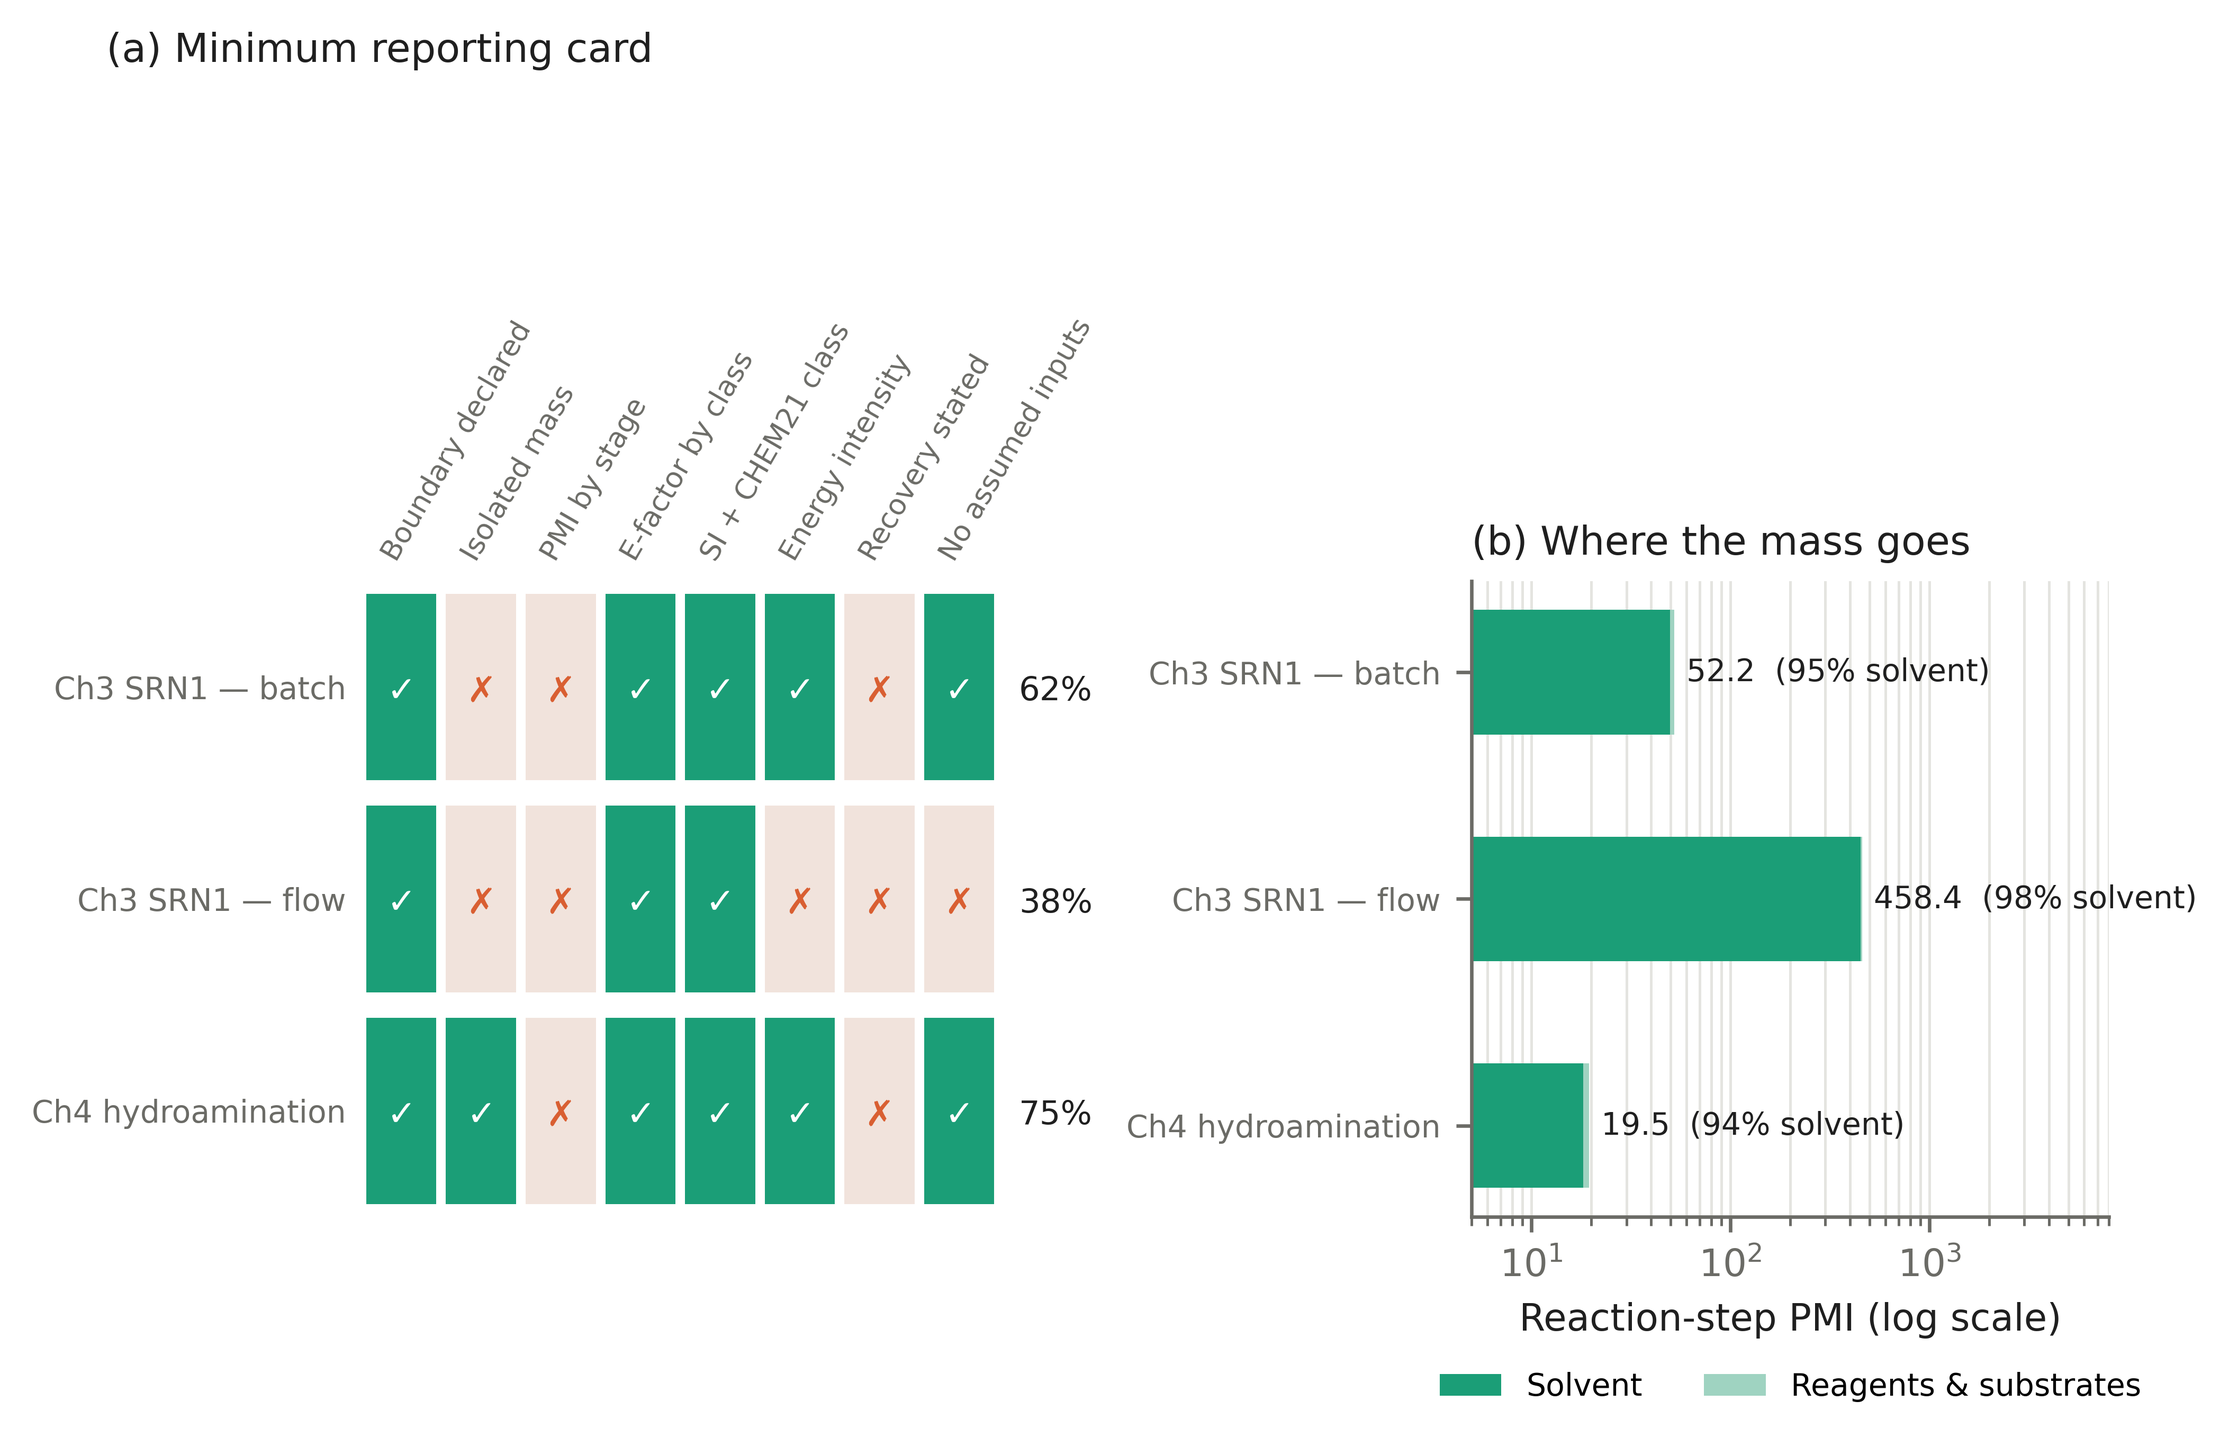
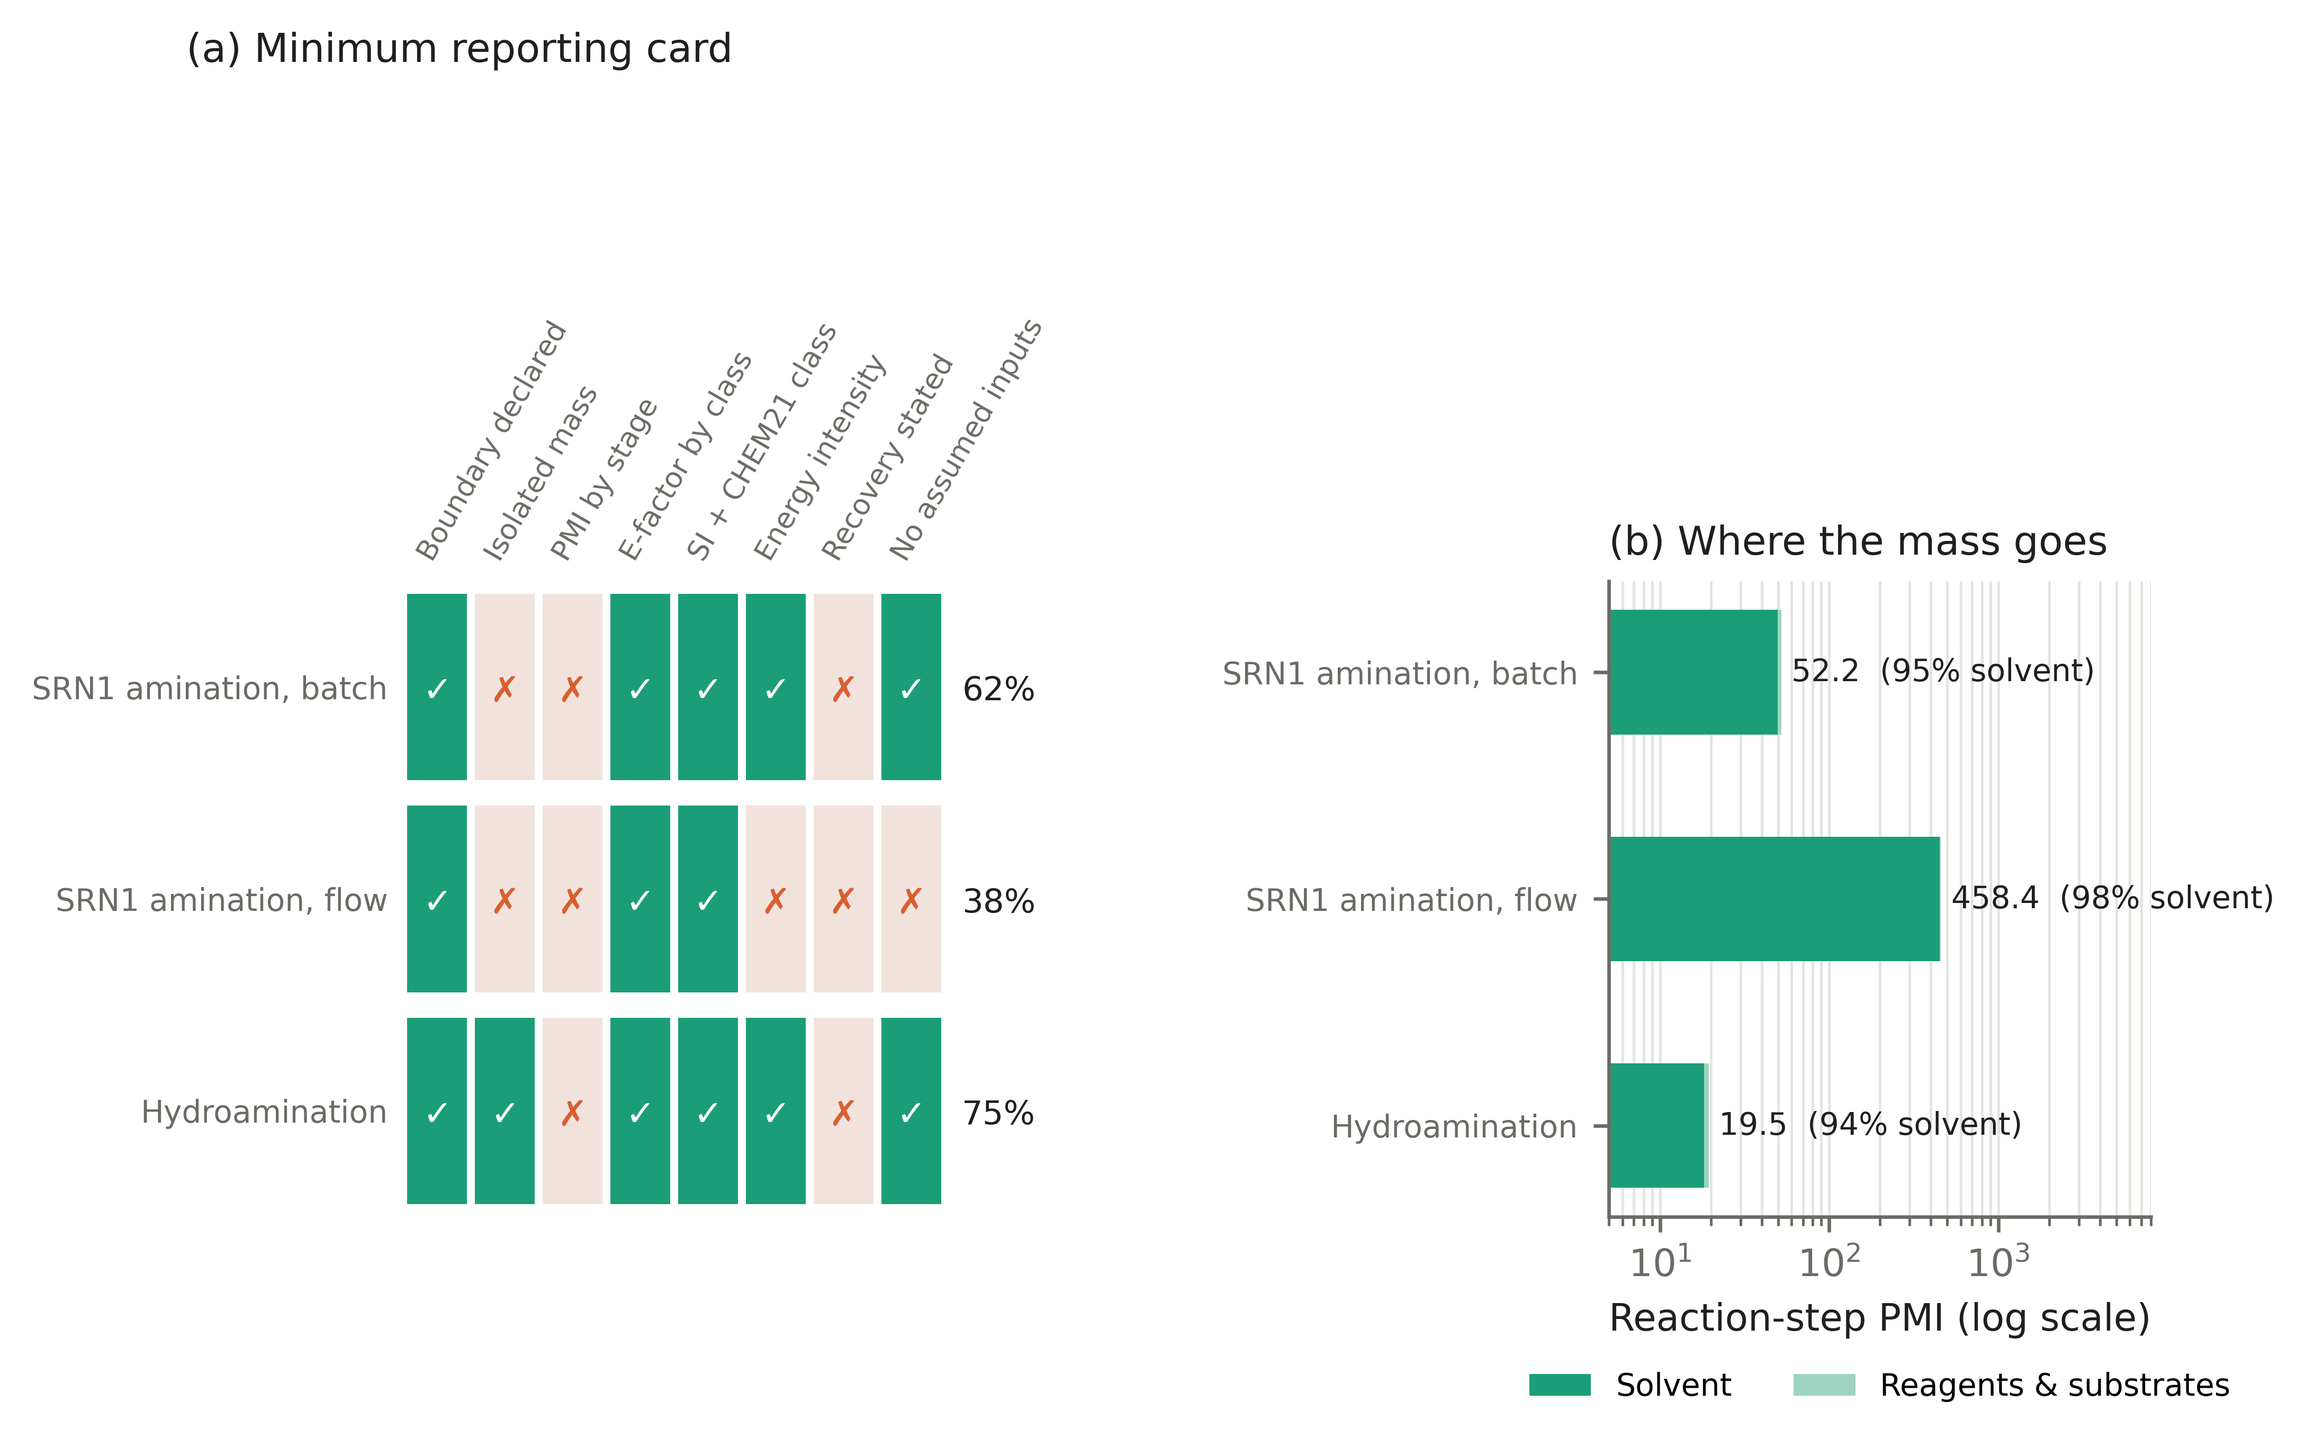
v0.1.1
Changes since v0.1.0:
- Add Triemer 2018 artemisinin records, triemer_sweep.py (Fig. 7) and regression test
- Literature analysis: add 134-paper hand labels; rename category to "Green metric (term in metadata; value in full text)"; label metadata-based tables
- Remove untraceable value from Fig. S1 panel b; regenerate figures
- Update README, literature_analysis README, CITATION.cff and pyproject to 0.1.1

diff --git a/literature_analysis/06_fig3.py b/literature_analysis/06_fig3.py
@@ -5,13 +5,13 @@ G,O,INK="#1B9E77","#D95F32","#16211D"
 fig=plt.figure(figsize=(7.2,6.4)); gs=fig.add_gridspec(2,2,hspace=0.6,wspace=0.35)
 ax=fig.add_subplot(gs[0,0]); x=np.arange(2); w=0.34
 a=[12.0,88.0]; f=[48.5,51.5]; na=[506,3722]; nf=[65,69]
-b1=ax.bar(x-w/2,a,w,color=G,label="Abstract / metadata (N = 4,228)"); b2=ax.bar(x+w/2,f,w,color=O,label="Full text, excl. reference lists (N = 134)")
+b1=ax.bar(x-w/2,a,w,color=G,label="Metadata: titles, abstracts, keywords (N = 4,228)"); b2=ax.bar(x+w/2,f,w,color=O,label="Full text, excl. reference lists (N = 134)")
 for xi,v,n in zip(x-w/2,a,na): ax.text(xi,v+1.5,f"{v:.1f}%\n(n={n:,})",ha="center",fontsize=7.5)
 for xi,v,n in zip(x+w/2,f,nf): ax.text(xi,v+1.5,f"{v:.1f}%\n(n={n})",ha="center",fontsize=7.5)
 ax.set_xticks(x); ax.set_xticklabels(["Mentions\nsustainability","Does not\nmention"]); ax.set_ylim(0,110); ax.set_ylabel("Share of publications (%)")
 ax.set_title("Sustainability language",fontsize=9.5); ax.text(-0.18,1.05,"(a)",transform=ax.transAxes,fontweight="bold",fontsize=11)
 ax.yaxis.grid(True,ls="--",color="#ddd"); ax.set_axisbelow(True)
-ax=fig.add_subplot(gs[0,1]); lab=["Abstract\nmentions","Full text\nmentions","Value\nflagged","Value\nconfirmed"]
+ax=fig.add_subplot(gs[0,1]); lab=["Metadata\nmentions","Full text\nmentions","Value\nflagged","Value\nconfirmed"]
 v=[1.4,6.0,3.7,2.2]; n=["58/4,228","8/134","5/134","3/134"]; col=[G,O,O,O]
 bars=ax.bar(range(4),v,0.6,color=col); bars[3].set_hatch("///"); bars[3].set_facecolor("white"); bars[3].set_edgecolor(O)
 for i,(vv,nn) in enumerate(zip(v,n)): ax.text(i,vv+0.25,f"{vv:.1f}%\n({nn})",ha="center",fontsize=7.5)
@@ -23,7 +23,7 @@ v=[1.4,25.9,72.7]; n=[58,1095,3075]
 ax.bar(range(3),v,0.5,color=G)
 for i,(vv,nn) in enumerate(zip(v,n)): ax.text(i,vv+1.5,f"{vv:.1f}%\n(n={nn:,})",ha="center",fontsize=7.5)
 ax.set_xticks(range(3)); ax.set_xticklabels(lab,fontsize=7.5); ax.set_ylim(0,100); ax.set_ylabel("Share of publications (%)")
-ax.set_title("Abstracts / metadata (N = 4,228)",fontsize=9.5)
+ax.set_title("Metadata (N = 4,228)",fontsize=9.5)
 ax.text(-0.18,1.05,"(c)",transform=ax.transAxes,fontweight="bold",fontsize=11); ax.yaxis.grid(True,ls="--",color="#ddd"); ax.set_axisbelow(True)
 ax=fig.add_subplot(gs[1,1]); lab=["Abstract explicitly\nclaims advantage\nover batch (of 134)","Of those, full text\nreports a green-\nmetric value (of 32)"]
 v=[23.9,3.1]; n=["32/134","1/32"]
@@ -33,4 +33,4 @@ ax.set_xticks(range(2)); ax.set_xticklabels(lab,fontsize=7.5); ax.set_ylim(0,100
 ax.set_title("Same papers, hand-labelled (N = 134)",fontsize=9.5)
 ax.text(-0.18,1.05,"(d)",transform=ax.transAxes,fontweight="bold",fontsize=11); ax.yaxis.grid(True,ls="--",color="#ddd"); ax.set_axisbelow(True)
 h,l=fig.axes[0].get_legend_handles_labels(); fig.legend(h,l,loc="upper center",ncol=2,frameon=False,bbox_to_anchor=(0.5,1.0),fontsize=8.5)
-fig.savefig("fig3_keyword_v11.png",dpi=600,bbox_inches="tight")
+fig.savefig("fig3_keyword.png",dpi=600,bbox_inches="tight")

diff --git a/scripts/triemer_sweep.py b/scripts/triemer_sweep.py
@@ -1,0 +1,44 @@
+"""Optimize step on published data: flow-rate study of Triemer et al. (2018), ESI Table S4.
+Writes results/triemer_sweep.csv and figures/fig7_triemer_pareto.png."""
+import csv, json
+from pathlib import Path
+import pmcor
+ROOT = Path(__file__).resolve().parents[1]
+tmpl = json.loads((ROOT / "examples/lit_triemer_photooxidation.json").read_text())
+S4 = [(0.75, 52.1), (0.5, 80.8), (0.33, 83.1), (0.2, 84.1)]  # liquid flow (mL/min), yield of PO1 (%)
+
+def apply(rec, row):
+    rec["flow_streams"][0]["flow_rate_mL_min"] = row["Q_L"]
+    rec["product"]["yield_pct"] = row["yield"]
+    return rec
+
+sweep = pmcor.sweep(tmpl, [{"Q_L": q, "yield": y} for q, y in S4], apply)
+ref = next(r for r in sweep if r["Q_L"] == 0.2)
+for r in sweep:
+    r["rel_pmi"] = r["pmi"] / ref["pmi"]
+    r["rel_energy"] = r["energy_intensity"] / ref["energy_intensity"]
+    r["throughput_rel"] = (r["Q_L"] * r["yield"]) / (ref["Q_L"] * ref["yield"])
+front = pmcor.pareto(sweep, ["pmi", "energy_intensity"])
+out = ROOT / "results"; out.mkdir(exist_ok=True)
+keys = ["Q_L", "yield", "pmi", "energy_intensity", "rel_pmi", "rel_energy", "throughput_rel"]
+with open(out / "triemer_sweep.csv", "w", newline="") as fh:
+    w = csv.writer(fh); w.writerow(keys + ["pareto"])
+    for r in sweep: w.writerow([round(r[k], 3) if isinstance(r[k], float) else r[k] for k in keys] + [r in front])
+for r in sweep: print({k: (round(r[k], 3) if isinstance(r[k], float) else r[k]) for k in keys}, "pareto" if r in front else "")
+
+import matplotlib; matplotlib.use("Agg"); import matplotlib.pyplot as plt
+plt.rcParams.update({"font.family": "DejaVu Sans", "font.size": 8, "axes.spines.top": False, "axes.spines.right": False})
+FLOW, INK, MUTED, GRID = "#1B9E77", "#16211D", "#6b6b6b", "#e5e5e5"
+fig, ax = plt.subplots(figsize=(4.4, 2.9))
+onf = {id(r) for r in front}
+for r in sweep:
+    ax.scatter(r["rel_energy"], r["rel_pmi"], s=34, color=FLOW if id(r) in onf else "#b9c7c2", edgecolor="white", lw=0.8, zorder=3)
+    ax.annotate(f"{r['Q_L']} mL min$^{{-1}}$\n({r['yield']:.0f}%)", (r["rel_energy"], r["rel_pmi"]), textcoords="offset points",
+                xytext=(7, 2), fontsize=6.5, color=INK)
+fs = sorted(front, key=lambda r: r["rel_energy"])
+ax.plot([r["rel_energy"] for r in fs], [r["rel_pmi"] for r in fs], color=INK, lw=1, zorder=2)
+ax.set_xlabel("Lamp energy per kg (relative to 0.2 mL min$^{-1}$)"); ax.set_ylabel("Reaction-step PMI (relative)")
+ax.set_xlim(0.3, 1.15); ax.set_ylim(0.95, 1.7)
+ax.grid(True, color=GRID, lw=0.6); ax.set_axisbelow(True)
+ax.text(-0.16, 1.02, "(b)", transform=ax.transAxes, fontsize=10, fontweight="bold", color=INK)
+fig.tight_layout(); (ROOT / "figures").mkdir(exist_ok=True); fig.savefig(ROOT / "figures/fig7_triemer_pareto.png", dpi=600); plt.close(fig)

diff --git a/literature_analysis/rules/text_mining_rules.py b/literature_analysis/rules/text_mining_rules.py
@@ -437,7 +437,7 @@ def plot_three_figures_abs_vs_full(merged_df: pd.DataFrame, outdir: Path) -> Non
     # ---------- FIGURE C: 3-category (metrics > proxy > none) ----------
     def classify_three(mets: pd.Series, proxy: pd.Series) -> pd.Series:
         cat = pd.Series(index=mets.index, dtype="object")
-        cat.loc[mets] = "Quantifies green metrics"
+        cat.loc[mets] = "Green metric (term in metadata; value in full text)"  # metadata: metric-term mention; full text: reported value
         cat.loc[~mets & ~proxy] = "No explicit improvement"
         cat.loc[~mets & proxy] = "Reports improvement vs batch (proxy)"
         return cat
@@ -446,12 +446,12 @@ def plot_three_figures_abs_vs_full(merged_df: pd.DataFrame, outdir: Path) -> Non
         merged_df["mentions_metrics_terms_abstract"],
         merged_df["proxy_improvement_abstract"]
     )
-    # For full text, use QUANTIFIED metrics (stronger evidence)
+    # For full text, require a reported value (keyword + number within 60 characters)
     cat_full = classify_three(
         merged_df["quantifies_any_metric_fulltext"],
         merged_df["proxy_improvement_fulltext"]
     )
-    order = ["Quantifies green metrics", "No explicit improvement", "Reports improvement vs batch (proxy)"]
+    order = ["Green metric (term in metadata; value in full text)", "No explicit improvement", "Reports improvement vs batch (proxy)"]
     pct_abs = (cat_abs.value_counts(normalize=True) * 100).reindex(order).fillna(0)
     pct_full = (cat_full.value_counts(normalize=True) * 100).reindex(order).fillna(0)
     n_abs = cat_abs.value_counts().reindex(order).fillna(0).astype(int)

diff --git a/scripts/thesis_casestudies.py b/scripts/thesis_casestudies.py
@@ -1,6 +1,5 @@
 """
-NOTE: the artemisinin record (Fig. 7 and the fourth row of Fig. 8 in the Perspective) is part of a manuscript
-in preparation and is not included in this release.
+NOTE: the artemisinin case (Fig. 7) is a literature record; see scripts/triemer_sweep.py.
 Reproduce every number and figure in the Perspective's worked examples.
 
 Run:  python scripts/thesis_casestudies.py   (writes results/ and figures/)
@@ -140,10 +139,10 @@ fig.tight_layout(); fig.savefig(FIG / "fig5_ch3_boundary.png"); plt.close(fig)
 
 # ---- Fig. 6: audit card heatmap + PMI composition
 order = ["Ch3 batch (opt.)", "Ch3 flow (entry 5)", "Ch4 hydroamination"]  # own records only; literature is not scored (see text)
-short = {"Ch3 batch (opt.)": "Ch3 SRN1 — batch", "Ch3 flow (entry 5)": "Ch3 SRN1 — flow",
-         "Ch4 hydroamination": "Ch4 hydroamination"}
+short = {"Ch3 batch (opt.)": "SRN1 amination, batch", "Ch3 flow (entry 5)": "SRN1 amination, flow",
+         "Ch4 hydroamination": "Hydroamination"}
 fig = plt.figure(figsize=(7.1, 2.6))
-gs = fig.add_gridspec(1, 2, width_ratios=[1.15, 1], wspace=0.55)
+gs = fig.add_gridspec(1, 2, width_ratios=[1.15, 1], wspace=1.0)
 axh = fig.add_subplot(gs[0]); axp = fig.add_subplot(gs[1])
 keys = [k for k, _ in CARD_ITEMS]
 colhead = ["Boundary declared", "Isolated mass", "PMI by stage", "E-factor by class", "SI + CHEM21 class",

diff --git a/tests/test_pmcor.py b/tests/test_pmcor.py
@@ -108,3 +108,11 @@ def test_zielke_hu331_flow_from_esi():
     r = compute(load(EX / "lit_zielke_hu331_flow_esi.json"), ["reaction", "workup"])
     assert r.pmi_by_stage["reaction"] == pytest.approx(10.1, rel=0.05)
     assert r.pmi == pytest.approx(37.9, rel=0.10)
+
+
+def test_triemer_artemisinin_literature_record():
+    p = pmcor.load(EX / "lit_triemer_artemisinin.json")
+    r = pmcor.compute(p)
+    assert round(r.pmi, 1) == 13.2
+    assert round(r.atom_economy, 1) == 94.0
+    assert round(r.energy_intensity) == 67

diff --git a/results/summary.md b/results/summary.md
@@ -10,6 +10,8 @@
 | NaBH4 reduction, batch (Prieschl 2020, ESI Table S7) | batch | reaction+workup | 131.4 | 130.4 | 126.1 | 95.9 | — | — | 64.0 | Recommended |
 | Ru-MACHO ester hydrogenation, flow (Prieschl 2020) | flow | reaction | 6.5 | 5.5 | 5.1 | 78.4 | — | 77.4 | 74.9 | Recommended |
 | Ru-MACHO ester hydrogenation, flow long run (Prieschl 2020, ESI Table S5) | flow | reaction+workup | 14.7 | 13.7 | 13.3 | 90.5 | — | — | 75.3 | Recommended |
+| Artemisinin from crude A. annua extract, flow (Triemer 2018) | flow | reaction | 13.2 | 12.2 | 9.2 | 69.6 | 67.0 | 94.0 | 59.8 | Problematic |
+| DHAA photo-oxidation in crude A. annua extract, flow (Triemer 2018, ESI Table S4) | flow | reaction | 10.6 | 9.6 | 7.7 | 72.3 | 56.0 | 100.0 | 72.9 | Problematic |
 | HU-331 — batch (Zielke 2025) | batch | reaction+workup | 787.0 | 786.0 | nan | nan | — | — | — | — |
 | HU-331 — flow (Zielke 2025) | flow | reaction+workup | 37.9 | 36.9 | nan | nan | — | — | — | — |
 | CBD to HU-331 aerobic oxidation, flow scale-out (Zielke 2025, ESI 2.1) | flow | reaction+workup | 35.0 | 34.0 | 32.9 | 94.1 | — | — | 93.7 | Recommended |
@@ -109,6 +111,34 @@ PMI by stage: reaction 6.5, workup 8.2
 Solvent by CHEM21 class (g/g): Recommended 13.3
   ! No energy inventory: energy intensity not determinable.
 Reporting card: ✓ boundary, ✓ isolated, ✓ pmi_stage, ✓ efactor_class, ✓ si, ✗ energy, ✗ recovery, ✓ no_assumed
+```
+
+```
+== Artemisinin from crude A. annua extract, flow (Triemer 2018) (flow; boundary: reaction) ==
+Product: 189.2 mg (assay)
+PMI 13.2 | E-factor 12.2 (dry 12.2) | SI 9.2 (69.6% of inputs)
+PMI by stage: reaction 13.2
+Energy 0.013 kWh -> 67 kWh/kg (nameplate)
+AE 94.0% | RME 59.8%
+Solvent by CHEM21 class (g/g): Problematic 9.2
+  ! Product mass is an assay yield, not isolated; PMI is a lower bound.
+  ! Boundary is reaction-step only; workup/purification excluded.
+  ! Energy from nameplate values, not metered.
+Reporting card: ✓ boundary, ✗ isolated, ✗ pmi_stage, ✓ efactor_class, ✓ si, ✓ energy, ✗ recovery, ✓ no_assumed
+```
+
+```
+== DHAA photo-oxidation in crude A. annua extract, flow (Triemer 2018, ESI Table S4) (flow; boundary: reaction) ==
+Product: 225.7 mg (assay)
+PMI 10.6 | E-factor 9.6 (dry 9.6) | SI 7.7 (72.3% of inputs)
+PMI by stage: reaction 10.6
+Energy 0.013 kWh -> 56 kWh/kg (nameplate)
+AE 100.0% | RME 72.9%
+Solvent by CHEM21 class (g/g): Problematic 7.7
+  ! Product mass is an assay yield, not isolated; PMI is a lower bound.
+  ! Boundary is reaction-step only; workup/purification excluded.
+  ! Energy from nameplate values, not metered.
+Reporting card: ✓ boundary, ✗ isolated, ✗ pmi_stage, ✓ efactor_class, ✓ si, ✓ energy, ✗ recovery, ✓ no_assumed
 ```
 
 ```

diff --git a/literature_analysis/README.md b/literature_analysis/README.md
@@ -41,4 +41,4 @@ python 07_hand_labels.py     # runs from data/ alone
 
 ## Hand labels
 
-`data/hand_labels_85.csv` is a random sample of 85 abstracts (60 flagged and 25 not flagged by the improvement rule) labelled blind to the rule output. `data/hand_labels_134.csv` holds labels for the abstracts of all 134 full-text papers. Label Y means the abstract claims an advantage of the flow or continuous process over batch or conventional processing, stated explicitly or clearly implied. `data/metric_verification.csv` records the reading of every full text that mentions a green metric.
+`data/hand_labels_85.csv` is a random sample of 85 records (60 flagged and 25 not flagged by the improvement rule, which is applied to title, abstract and keyword metadata); their abstracts were labelled blind to the rule output. `data/hand_labels_134.csv` holds labels for the abstracts of all 134 full-text papers. Label Y means the abstract claims an advantage of the flow or continuous process over batch or conventional processing, stated explicitly or clearly implied. `data/metric_verification.csv` records the reading of every full text that mentions a green metric.

diff --git a/README.md b/README.md
@@ -67,10 +67,11 @@ This repository accompanies A. W. Williams, F. M. Wariri and K. M. Gilmore, "Is 
 
 ```bash
 python scripts/thesis_casestudies.py   # writes results/summary.md, CSVs and figures/
+python scripts/triemer_sweep.py        # Fig. 7
 pytest -q
 ```
 
-The artemisinin record (Fig. 7 and the fourth row of Fig. 8 in the Perspective) is part of a manuscript in preparation and is not included in this release.
+The artemisinin case (Fig. 7) uses the published inventory of Triemer et al., *Angew. Chem. Int. Ed.*, 2018, **57**, 5525: `examples/lit_triemer_artemisinin.json`, `examples/lit_triemer_photooxidation.json` and `scripts/triemer_sweep.py`.
 
 The literature analysis (the metrics-gap survey) is in [`literature_analysis/`](literature_analysis/README.md).
 
